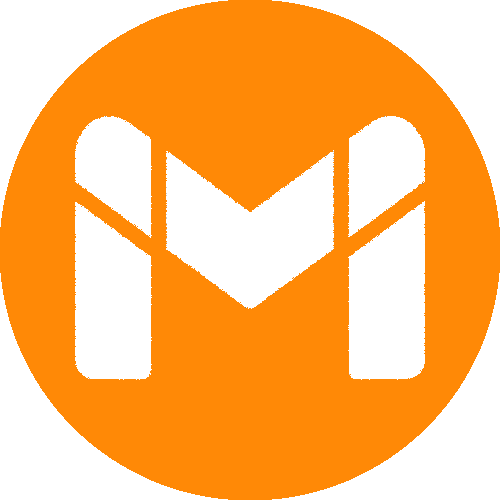
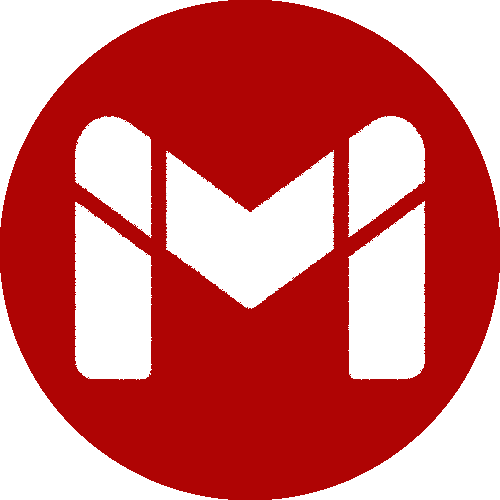
updating color theme

diff --git a/script.js b/script.js
@@ -92,8 +92,8 @@ function applyTheme(logo, switchIcon, prof, load, next, prev, nav, themeName) {
     elements.theme.classList.add("open");
     changeImagesArray(elements.profileIcons, ['assets/linkedin.png', 'assets/github.png', 'assets/gmail.png']);
     changeImagesArray(elements.contactIcons, ['assets/gmail.png', 'assets/phone.png', 'assets/linkedin.png', 'assets/facebook.png']);
-    changeImagesArray(elements.ghIcons, Array(3).fill('assets/github.png'));
-    changeImagesArray(elements.eyeIcons, Array(3).fill('assets/eye.png'));
+    changeImagesArray(elements.ghIcons, Array(8).fill('assets/github.png'));
+    changeImagesArray(elements.eyeIcons, Array(8).fill('assets/eye.png'));
 
   }
 }
@@ -102,11 +102,11 @@ elements.themeToggle.addEventListener("click", function () {
   elements.theme.classList.toggle("open");
 
   if (elements.theme.classList.contains("open")) {
-    applyTheme('assets/logo_dark.png', 'assets/sun.png', 'assets/profile.png','assets/loading.gif', 'assets/right_arrow.png','assets/left_arrow.png', '#eff0f3', 'light');
+    applyTheme('assets/logo_dark.png', 'assets/sun.png', 'assets/profile.png','assets/loading.gif', 'assets/right_arrow.png','assets/left_arrow.png', '#F1E9E3', 'light');
     localStorage.setItem("theme", "light");
     
   } else {
-    applyTheme('assets/logo_white.png', 'assets/moon.png', 'assets/profile_dark.png','assets/loading_dark.gif','assets/right_arrow_dark.png','assets/left_arrow_dark.png', '#000000','dark');
+    applyTheme('assets/logo_white.png', 'assets/moon.png', 'assets/profile_dark.png','assets/loading_dark.gif','assets/right_arrow_dark.png','assets/left_arrow_dark.png', '#414141','dark');
     localStorage.setItem("theme", "dark");
     
   }
@@ -114,7 +114,7 @@ elements.themeToggle.addEventListener("click", function () {
 
 const savedTheme = localStorage.getItem("theme");
 if (savedTheme == 'light') {
-  applyTheme('assets/logo_dark.png', 'assets/sun.png', 'assets/profile.png','assets/loading.gif', 'assets/right_arrow.png','assets/left_arrow.png', '#eff0f3',  savedTheme);
+  applyTheme('assets/logo_dark.png', 'assets/sun.png', 'assets/profile.png','assets/loading.gif', 'assets/right_arrow.png','assets/left_arrow.png', '#F1E9E3',  savedTheme);
 
 }
 
@@ -223,7 +223,7 @@ var lastScrollTop = window.pageYOffset || document.documentElement.scrollTop;
 function slideDown(){
   tabContainer.classList.remove("slide-up");
   if (theme.classList.contains("open")) {
-    tabContainer.style.background = '#eff0f3';
+    tabContainer.style.background = '#F1E9E3';
   }else{
     tabContainer.style.background = '#414141';
   }
@@ -235,7 +235,7 @@ function slideUp(){
 
   tabContainer.classList.add("slide-up");
   if (theme.classList.contains("open")) {
-    tabContainer.style.background = '#eff0f3';
+    tabContainer.style.background = '#F1E9E3';
   }else{
     tabContainer.style.background = '#414141';
   }

diff --git a/style.css b/style.css
@@ -26,15 +26,15 @@
     color: var(--_primary_color);
 }
 body.open{
-    --bg_color: #F8EDED;
-    --card_bg: #B43F3F;
-    --navbar_color: #eff0f3;
+    --bg_color: #FBF7F7;
+    --card_bg: #F1E9E3;
+    --navbar_color: #F1E9E3;
     --primary_color: #0d0d0d;
-    --secondary_color: #d9376e;
+    --secondary_color: #DC4712;
     --toggle_position: translateX(31px);
     --title_color: #0d0d0d;
     --p_color: #2a2a2a;
-    --tag_color: #ff8e3c;
+    --tag_color: #EE712B;
 }
 
 p{
@@ -314,25 +314,7 @@ a:hover::before, a:hover::after {
     height: 400px;
     width: 400px;
     transition: all .6s ease-out;
-}
-
-.home_pic svg{
-    fill: var(--_primary_color);
-    animation: glow 3s ease-in infinite forwards;
-}
-@keyframes glow {
-    0%{
-        filter: drop-shadow(1px 1px 7px var(--_navbar_color));
-    }
-    40%{
-        filter: drop-shadow(1px 1px 7px var(--_secondary_color));
-    }
-    60%{
-        filter: drop-shadow(1px 1px 7px var(--_secondary_color));
-    }
-    100%{
-        filter: drop-shadow(1px 1px 7px var(--_navbar_color));
-    }
+    fill: var(--_secondary_color);
 }
 
 .home_details_card {
@@ -394,7 +376,7 @@ a:hover::before, a:hover::after {
     flex-wrap: wrap;
     flex-direction: row;
     justify-content: center;
-    margin: 1.5rem;
+    margin: 1rem;
     overflow: hidden;
     width: 100%;
     align-items: center;
@@ -709,7 +691,6 @@ a:hover::before, a:hover::after {
     width: 100%;
     overflow: hidden;
     max-height: 12rem;
-    border: var(--_p_color) 2px solid;
     border-radius: 2rem;
 }
 .about_cover img{
@@ -731,11 +712,11 @@ a:hover::before, a:hover::after {
 .about_pic img{
     width: 18.75rem;
     height: 25rem;
-    border: var(--_p_color) 2px solid;
     border-radius: 2rem;
+    background: var(--_card_bg);
 }
+
 .about_bg{
-    border: var(--_p_color) 2px solid;
     border-radius: 2rem;
     padding: 2rem;
     flex: 1;
@@ -790,11 +771,11 @@ a:hover::before, a:hover::after {
     align-items: center;
     width: 30vw;
     gap: 2rem;
-    border: var(--_p_color) 2px solid;
     border-radius: 2rem;
     padding: 2rem;
     max-width: 55rem;
     width: 100%;
+    background: var(--_card_bg);
 
 }
 .skills h4{
